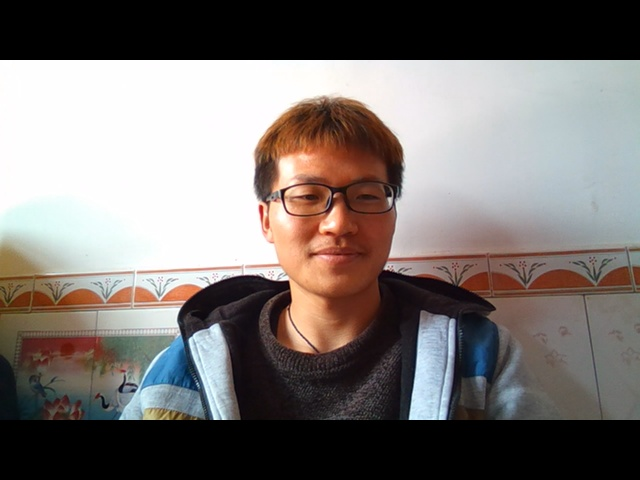
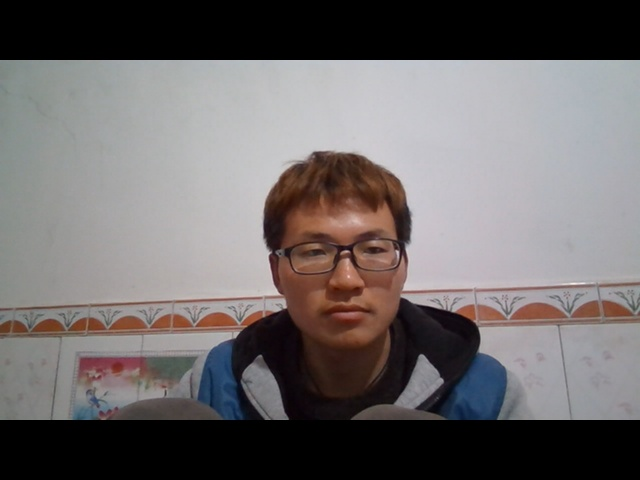
第二次提交

diff --git a/Video_proces/camera_opencv.py b/Video_proces/camera_opencv.py
@@ -30,19 +30,19 @@ class Camera(BaseCamera):
         while True:
             # read current frame
             _, img = camera.read()
-            cv2.imwrite(path + 'img/1.jpg', img)
-            image = Image.open(path + 'img/1.jpg')
-            print("image", type(image))
+            # cv2.imwrite(path + 'img/1.jpg', img)
+            # image = Image.open(path + 'img/1.jpg')
+            # print("image", type(image))
             # image = Image.fromarray()
             # img1 = cv2.imencode('.jpg', img)[1].tobytes()
             # # frame = cv2.flip(img, 1)  # 读取每一帧的图片
             # # print(frame)
-            r_image = yolo.detect_image(image)
-            print("r_image", type(r_image))
-
-            r_image.save(path + 'imgs/1.jpg')
-            r_image = Image.open(path + 'imgs/1.jpg')
+            # r_image = yolo.detect_image(image)
+            # print("r_image", type(r_image))
+            #
+            # r_image.save(path + 'imgs/1.jpg')
+            # r_image = Image.open(path + 'imgs/1.jpg')
             # img1 = cv2.imencode('.jpg', r_image).tobytes()
             # encode as a jpeg image and return it
-            # yield img1
-            yield r_image.read()
+            yield cv2.imencode('.jpg', img)[1].tobytes()
+            # yield r_image.read()

diff --git a/Video_proces/app.py b/Video_proces/app.py
@@ -7,7 +7,7 @@ from flask import Flask, render_template, Response
 if os.environ.get('CAMERA'):
     Camera = import_module('camera_' + os.environ['CAMERA']).Camera
 else:
-    from Video_proces.camera import Camera
+    from Video_proces.camera_opencv import Camera
 
 # Raspberry Pi camera module (requires picamera package)
 # from camera_pi import Camera

diff --git a/Video_proces/camera.py b/Video_proces/camera.py
@@ -39,7 +39,7 @@ class Camera(BaseCamera):
     def frames():
 
         while True:
-            time.sleep(1)  # 定时刷新
+            time.sleep(0.0001)  # 定时刷新
             imgs = open('D:/PycharmProjects/A05-lsu-j182_Hat_view/Video_proces/templates/imgs/1.jpg', 'rb')
             image = imgs.read()
 
